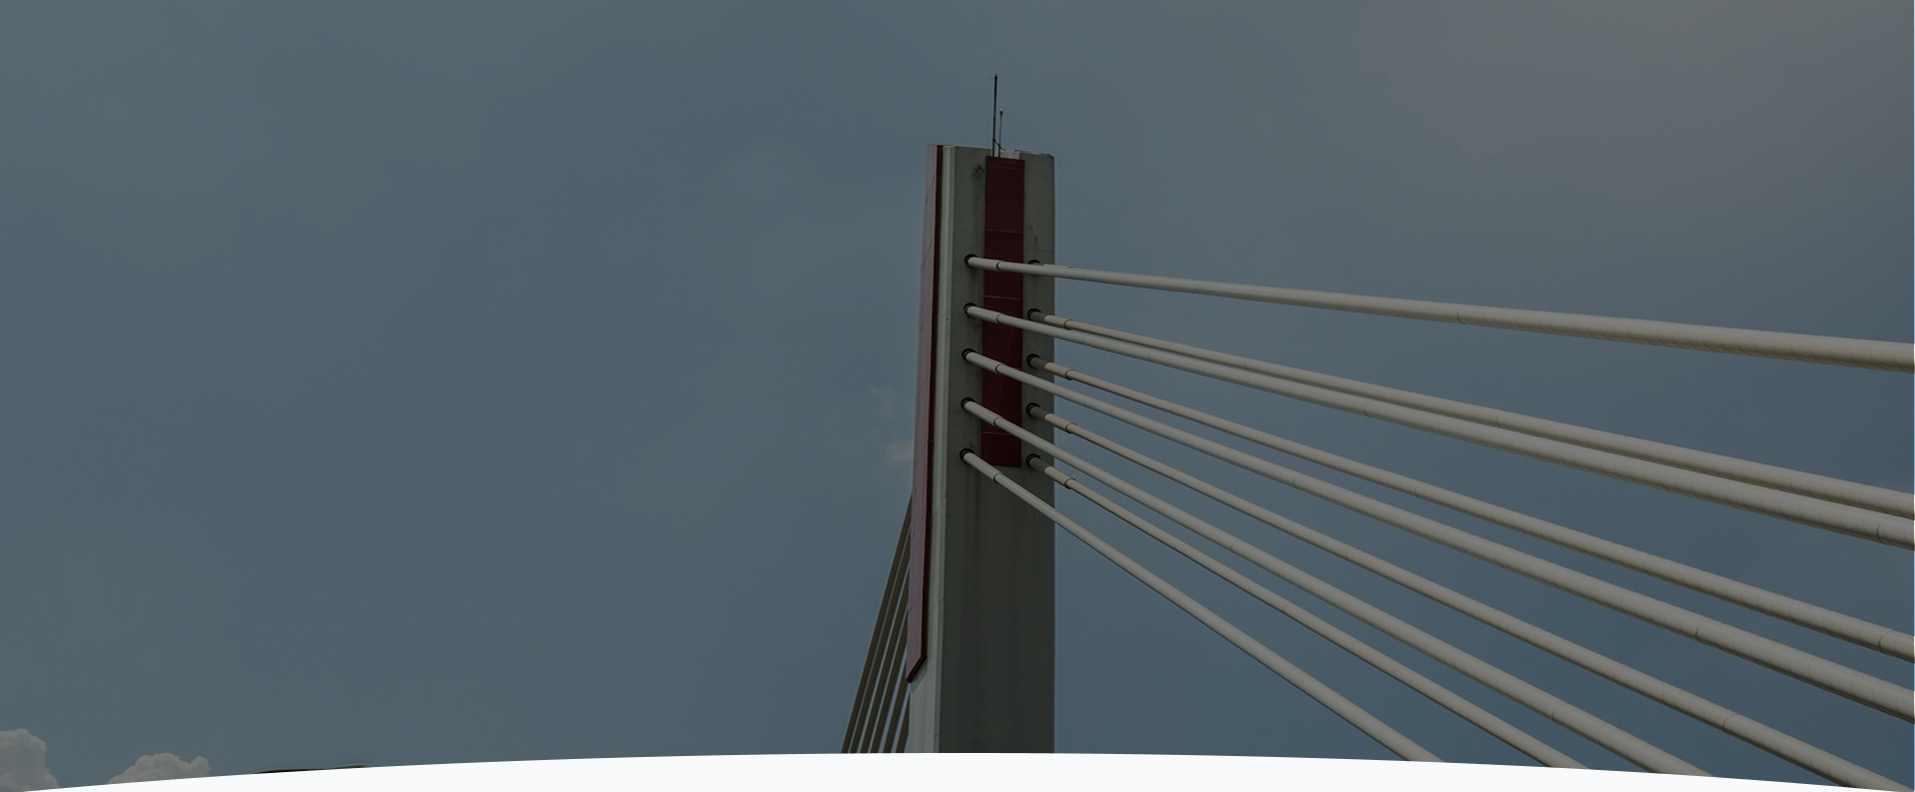
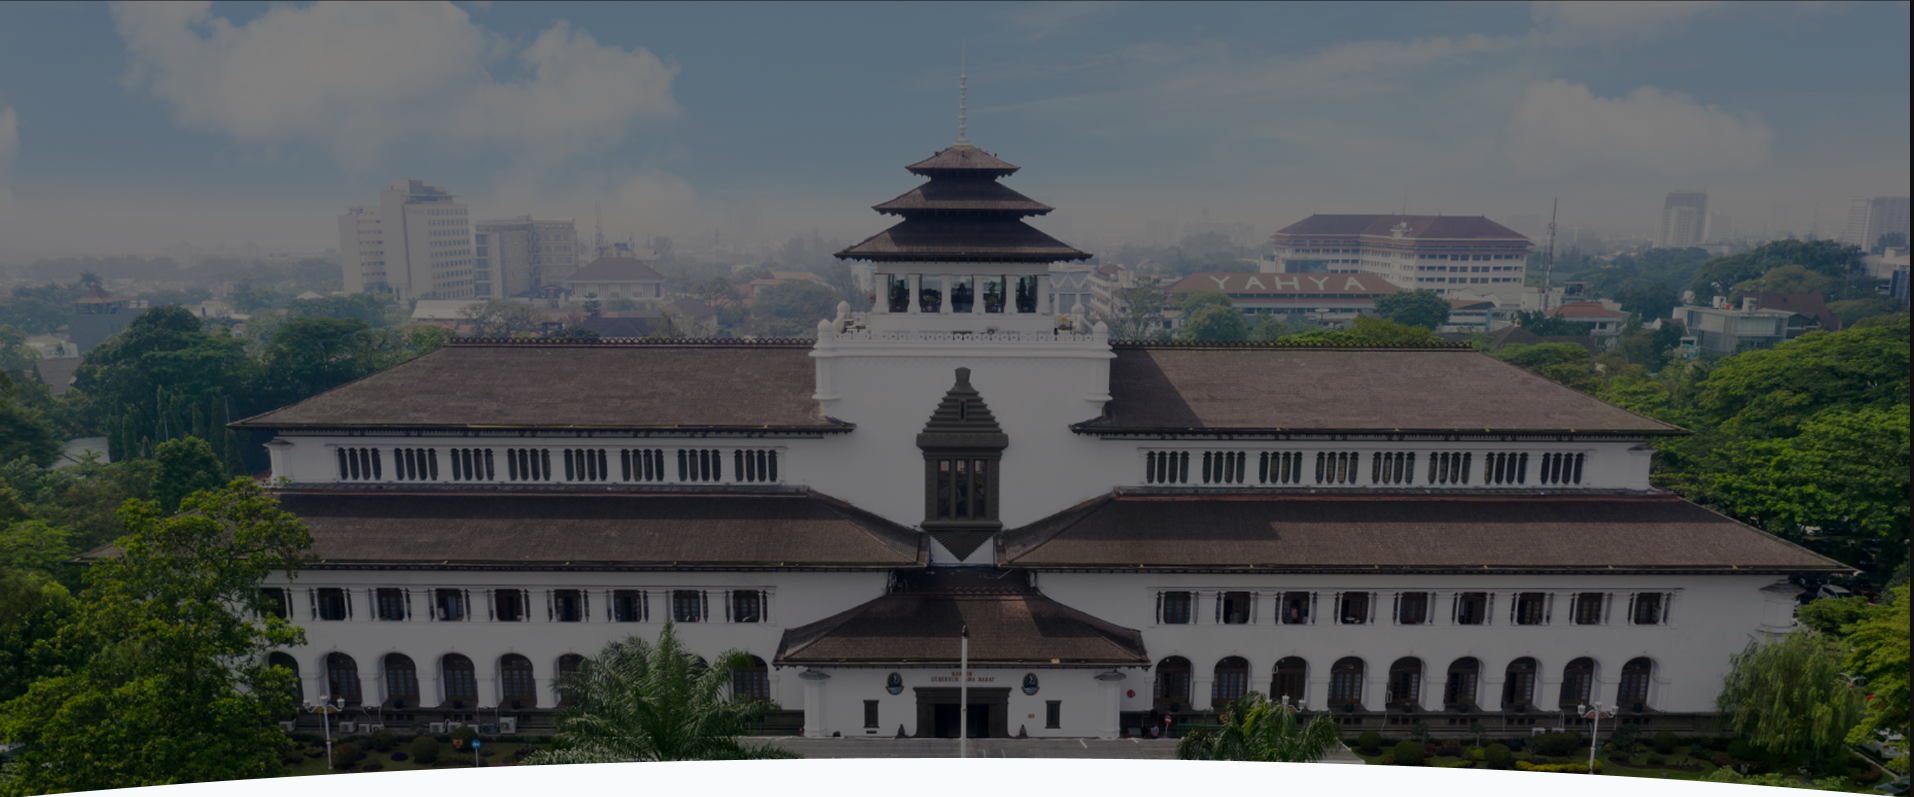
Refresh dashboard glass UI and view toggle
Revamps the dashboard visual style with brighter glassmorphism treatments across quick-access cards and filter controls, plus a smoother animated Grid/List toggle using Framer Motion layout transitions. It also updates portal background styling and image assets for the hero/ambient visuals, while adding `liquid-glass-react` to support the new glass-effect direction.

diff --git a/frontend/src/pages/DashboardPage.tsx b/frontend/src/pages/DashboardPage.tsx
@@ -1,4 +1,5 @@
 import { useState, useMemo } from 'react'
+import { LazyMotion, domAnimation, m } from 'framer-motion'
 import { useAuth } from '@/lib/auth/auth-context'
 import { useFavorites } from '@/lib/hooks/useFavorites'
 import { QuickAccessCard } from '@/components/services/QuickAccessCard'
@@ -198,11 +199,11 @@ export function DashboardPage() {
           {/* Quick Access — Top 3 Layanan Terpopuler */}
           <div>
             <FadeInView direction="down">
-              <div className="flex items-center justify-center gap-2 mb-3.5">
+              <div className="flex items-center gap-2.5 mb-3">
                 <h2 className="text-white font-bold text-lg drop-shadow-xs">Layanan Terpopuler</h2>
               </div>
             </FadeInView>
-            <div className="grid grid-cols-1 sm:grid-cols-2 lg:grid-cols-3 xl:grid-cols-3 gap-4 xl:max-w-[75%] mx-auto">
+            <div className="grid grid-cols-1 sm:grid-cols-2 lg:grid-cols-3 gap-4">
               {topServices.map((service, index) => (
                 <FadeInView
                   key={service.id}
@@ -231,55 +232,68 @@ export function DashboardPage() {
                 </span>
               </div>
 
-              {/* Grid vs List View Toggle — frosted glass pill */}
-              <div
-                className="flex items-center p-1 rounded-xl shadow-sm"
-                style={{
-                  background: 'rgba(255, 255, 255, 0.82)',
-                  backdropFilter: 'blur(16px) saturate(160%)',
-                  WebkitBackdropFilter: 'blur(16px) saturate(160%)',
-                  border: '1px solid rgba(255, 255, 255, 0.65)',
-                  boxShadow: '0 2px 12px rgba(0,0,0,0.08), inset 0 1px 0 rgba(255,255,255,0.9)',
-                }}
-              >
-                <button
-                  onClick={() => handleSetViewMode('grid')}
-                  title="Tampilan Grid Kartu"
-                  className={cn(
-                    'flex items-center gap-1.5 px-3 py-1.5 rounded-lg text-xs font-semibold transition-all cursor-pointer',
-                    viewMode === 'grid'
-                      ? 'bg-white text-slate-800 shadow-sm'
-                      : 'text-slate-500 hover:text-slate-700'
-                  )}
+              {/* Grid vs List View Toggle — frosted glass pill with framer-motion layoutId */}
+              <LazyMotion features={domAnimation} strict>
+                <div
+                  className="flex items-center p-1 rounded-xl shadow-xs relative"
+                  style={{
+                    background: 'linear-gradient(135deg, rgba(255, 255, 255, 0.52) 0%, rgba(255, 255, 255, 0.40) 100%)',
+                    backdropFilter: 'blur(20px) saturate(200%) brightness(118%)',
+                    WebkitBackdropFilter: 'blur(20px) saturate(200%) brightness(118%)',
+                    border: '1px solid rgba(255, 255, 255, 0.70)',
+                    boxShadow: '0 4px 16px rgba(0,0,0,0.06), inset 0 1px 1px rgba(255,255,255,0.95), inset 0 0 10px rgba(255,255,255,0.25)',
+                  }}
                 >
-                  <LayoutGrid className="h-3.5 w-3.5" />
-                  <span className="hidden xs:inline">Grid</span>
-                </button>
-                <button
-                  onClick={() => handleSetViewMode('list')}
-                  title="Tampilan Tabel/List Ramping"
-                  className={cn(
-                    'flex items-center gap-1.5 px-3 py-1.5 rounded-lg text-xs font-semibold transition-all cursor-pointer',
-                    viewMode === 'list'
-                      ? 'bg-white text-slate-800 shadow-sm'
-                      : 'text-slate-500 hover:text-slate-700'
-                  )}
-                >
-                  <List className="h-3.5 w-3.5" />
-                  <span className="hidden xs:inline">List</span>
-                </button>
-              </div>
+                  <button
+                    onClick={() => handleSetViewMode('grid')}
+                    title="Tampilan Grid Kartu"
+                    className={cn(
+                      'relative flex items-center gap-1.5 px-3 py-1.5 rounded-lg text-xs font-semibold transition-colors duration-200 cursor-pointer select-none',
+                      viewMode === 'grid' ? 'text-slate-900' : 'text-slate-600'
+                    )}
+                  >
+                    {viewMode === 'grid' && (
+                      <m.div
+                        layoutId="activeViewModeIndicator"
+                        className="absolute inset-0 bg-white/90 rounded-lg shadow-xs border border-white/80"
+                        transition={{ type: 'spring', stiffness: 500, damping: 35 }}
+                      />
+                    )}
+                    <LayoutGrid className="h-3.5 w-3.5 relative z-10" />
+                    <span className="hidden xs:inline relative z-10">Grid</span>
+                  </button>
+
+                  <button
+                    onClick={() => handleSetViewMode('list')}
+                    title="Tampilan Tabel/List Ramping"
+                    className={cn(
+                      'relative flex items-center gap-1.5 px-3 py-1.5 rounded-lg text-xs font-semibold transition-colors duration-200 cursor-pointer select-none',
+                      viewMode === 'list' ? 'text-slate-900' : 'text-slate-600'
+                    )}
+                  >
+                    {viewMode === 'list' && (
+                      <m.div
+                        layoutId="activeViewModeIndicator"
+                        className="absolute inset-0 bg-white/90 rounded-lg shadow-xs border border-white/80"
+                        transition={{ type: 'spring', stiffness: 500, damping: 35 }}
+                      />
+                    )}
+                    <List className="h-3.5 w-3.5 relative z-10" />
+                    <span className="hidden xs:inline relative z-10">List</span>
+                  </button>
+                </div>
+              </LazyMotion>
             </div>
 
-            {/* Filter & Search Bar — Frosted Glass, more solid white */}
+            {/* Filter & Search Bar — Luminous Frosted Glass */}
             <div
               className="p-3 sm:p-4 rounded-2xl shadow-lg transition-all"
               style={{
-                background: 'rgba(255, 255, 255, 0.82)',
-                backdropFilter: 'blur(20px) saturate(180%)',
-                WebkitBackdropFilter: 'blur(20px) saturate(180%)',
-                border: '1px solid rgba(255, 255, 255, 0.65)',
-                boxShadow: '0 4px 24px rgba(0,0,0,0.10), 0 1px 4px rgba(0,0,0,0.06), inset 0 1px 0 rgba(255,255,255,0.95)',
+                background: 'linear-gradient(135deg, rgba(255, 255, 255, 0.52) 0%, rgba(255, 255, 255, 0.40) 100%)',
+                backdropFilter: 'blur(20px) saturate(200%) brightness(118%)',
+                WebkitBackdropFilter: 'blur(20px) saturate(200%) brightness(118%)',
+                border: '1px solid rgba(255, 255, 255, 0.70)',
+                boxShadow: '0 8px 32px rgba(0,0,0,0.08), 0 2px 8px rgba(0,0,0,0.04), inset 0 1.5px 1px rgba(255,255,255,0.95), inset 0 0 16px rgba(255,255,255,0.25)',
               }}
             >
               <div className="grid grid-cols-1 sm:grid-cols-12 gap-3 items-center">
@@ -290,12 +304,12 @@ export function DashboardPage() {
                     value={searchQuery}
                     onChange={e => setSearchQuery(e.target.value)}
                     placeholder="Cari layanan berdasarkan nama atau deskripsi..."
-                    className="pl-10 pr-8 bg-white/60 hover:bg-white/80 focus:bg-white border-slate-200/70 focus:border-slate-300 text-slate-800 placeholder:text-slate-400 text-xs sm:text-sm h-11 rounded-xl transition-all shadow-inner"
+                    className="pl-10 pr-8 bg-slate-50/80 hover:bg-slate-50 focus:bg-white border-slate-200 text-slate-800 placeholder:text-slate-400 text-xs sm:text-sm h-11 rounded-xl transition-all shadow-2xs"
                   />
                   {searchQuery && (
                     <button
                       onClick={() => setSearchQuery('')}
-                      className="absolute right-3 top-1/2 -translate-y-1/2 text-slate-400 hover:text-slate-700 p-0.5 cursor-pointer"
+                      className="absolute right-3 top-1/2 -translate-y-1/2 text-slate-400 hover:text-slate-600 p-0.5 cursor-pointer"
                       title="Hapus pencarian"
                     >
                       <X className="h-3.5 w-3.5" />
@@ -309,18 +323,18 @@ export function DashboardPage() {
                     value={selectedCategory !== null ? String(selectedCategory) : 'all'}
                     onValueChange={val => setSelectedCategory(val === 'all' ? null : Number(val))}
                   >
-                    <SelectTrigger className="w-full bg-white/60 hover:bg-white/80 focus:bg-white border-slate-200/70 text-slate-700 text-xs sm:text-sm h-11 rounded-xl">
+                    <SelectTrigger className="w-full bg-slate-50/80 hover:bg-slate-50 focus:bg-white border-slate-200 text-slate-700 text-xs sm:text-sm h-11 rounded-xl shadow-2xs">
                       <SelectValue placeholder="Semua Kategori" />
                     </SelectTrigger>
-                    <SelectContent className="bg-white/95 backdrop-blur-xl border border-slate-200 text-slate-800 shadow-2xl rounded-xl">
-                      <SelectItem value="all" className="text-slate-700 hover:bg-slate-50 focus:bg-slate-50 cursor-pointer">
+                    <SelectContent className="bg-white border-slate-200 text-slate-800 shadow-xl rounded-xl">
+                      <SelectItem value="all" className="cursor-pointer text-xs sm:text-sm">
                         Semua Kategori
                       </SelectItem>
                       {mockCategories.map(cat => (
                         <SelectItem
                           key={cat.id}
                           value={String(cat.id)}
-                          className="text-slate-700 hover:bg-slate-50 focus:bg-slate-50 cursor-pointer"
+                          className="cursor-pointer text-xs sm:text-sm"
                         >
                           {cat.nama}
                         </SelectItem>

diff --git a/frontend/src/components/services/QuickAccessCard.tsx b/frontend/src/components/services/QuickAccessCard.tsx
@@ -20,11 +20,11 @@ export function QuickAccessCard({
       aria-label={`Layanan terpopuler: ${service.nama}. ${service.deskripsi}.${service.usage_count ? ` ${service.usage_count.toLocaleString()} kali diakses.` : ''}`}
       className="h-full flex flex-col justify-between relative overflow-hidden group rounded-2xl cursor-pointer focus-visible:outline-none focus-visible:ring-2 focus-visible:ring-white/80 focus-visible:ring-offset-2 focus-visible:ring-offset-transparent transition-all duration-300 hover:-translate-y-1"
       style={{
-        background: 'rgba(255, 255, 255, 0.88)',
-        backdropFilter: 'blur(20px) saturate(180%)',
-        WebkitBackdropFilter: 'blur(20px) saturate(180%)',
-        border: '1px solid rgba(255, 255, 255, 0.7)',
-        boxShadow: '0 4px 24px rgba(0,0,0,0.10), 0 1.5px 6px rgba(0,0,0,0.07), inset 0 1px 0 rgba(255,255,255,0.9)',
+        background: 'linear-gradient(135deg, rgba(255, 255, 255, 0.52) 0%, rgba(255, 255, 255, 0.40) 100%)',
+        backdropFilter: 'blur(20px) saturate(200%) brightness(118%)',
+        WebkitBackdropFilter: 'blur(20px) saturate(200%) brightness(118%)',
+        border: '1px solid rgba(255, 255, 255, 0.70)',
+        boxShadow: '0 8px 32px rgba(0,0,0,0.08), 0 2px 8px rgba(0,0,0,0.04), inset 0 1.5px 1px rgba(255,255,255,0.95), inset 0 0 16px rgba(255,255,255,0.25)',
       }}
       onClick={() => onServiceClick(service)}
       onKeyDown={(e) => {
@@ -38,35 +38,36 @@ export function QuickAccessCard({
       <div
         className="w-full h-32 sm:h-36 flex items-center justify-center p-4 rounded-t-2xl shrink-0"
         style={{
-          background: 'rgba(255, 255, 255, 0.70)',
-          borderBottom: '1px solid rgba(255, 255, 255, 0.6)',
+          background: 'linear-gradient(180deg, rgba(255, 255, 255, 0.35) 0%, rgba(255, 255, 255, 0.22) 100%)',
+          borderBottom: '1px solid rgba(255, 255, 255, 0.45)',
+          boxShadow: 'inset 0 1px 1px rgba(255, 255, 255, 0.6)',
         }}
       >
         {service.icon_url ? (
           <img
             src={service.icon_url}
             alt={`Logo ${service.nama}`}
-            className="max-h-20 max-w-[80%] object-contain drop-shadow-2xs group-hover:scale-105 transition-transform duration-300"
+            className="max-h-20 max-w-[80%] object-contain drop-shadow-sm group-hover:scale-105 transition-transform duration-300"
           />
         ) : (
           <div className="flex flex-col items-center gap-1.5">
-            <Layers aria-hidden="true" className="h-8 w-8 text-slate-400 group-hover:scale-110 transition-transform duration-300" />
-            <span className="text-slate-600 text-xs font-semibold">{service.nama}</span>
+            <Layers aria-hidden="true" className="h-8 w-8 text-slate-500 group-hover:scale-110 transition-transform duration-300" />
+            <span className="text-slate-700 text-xs font-semibold">{service.nama}</span>
           </div>
         )}
       </div>
 
       {/* Description & info strip */}
       <div className="p-4 pt-3 flex-1 flex flex-col justify-between">
-        <p className="text-slate-600 text-xs line-clamp-2 mb-3 leading-relaxed font-normal">
+        <p className="text-slate-700 text-xs line-clamp-2 mb-3 leading-relaxed font-normal">
           {service.deskripsi}
         </p>
         <div
           className="flex items-center justify-between pt-2.5 mt-auto"
-          style={{ borderTop: '1px solid rgba(255, 255, 255, 0.5)' }}
+          style={{ borderTop: '1px solid rgba(255, 255, 255, 0.45)' }}
         >
-          <span className="text-slate-400 text-[11px] font-normal">Layanan Populer</span>
-          <span className="text-blue-600 font-semibold text-[11px]">
+          <span className="text-slate-600/90 text-[11px] font-medium">Layanan Populer</span>
+          <span className="text-primary-700 font-semibold text-[11px]">
             {service.usage_count?.toLocaleString()} kali diakses
           </span>
         </div>

diff --git a/frontend/src/index.css b/frontend/src/index.css
@@ -49,8 +49,7 @@
 
   /* Sleek modern scrollbar */
   ::-webkit-scrollbar {
-    width: 7px;
-    height: 7px;
+    display: none;
   }
 
   ::-webkit-scrollbar-track {
@@ -130,8 +129,23 @@
    Static Background (Portal pages)
    ================================ */
 .bg-portal {
-  background-color: #f8fafc;
+  background: linear-gradient(140deg, #f8fafc 0%, #edf2f7 35%, #e6f0fa 70%, #f0fdfa 100%);
   min-height: 100vh;
+}
+
+.bg-portal::before {
+  content: '';
+  position: fixed;
+  top: 0;
+  left: 0;
+  width: 100%;
+  height: 100%;
+  background: radial-gradient(ellipse at 12% 20%, rgba(59, 130, 246, 0.12) 0%, transparent 48%),
+              radial-gradient(ellipse at 88% 65%, rgba(13, 148, 136, 0.12) 0%, transparent 48%),
+              radial-gradient(ellipse at 50% 12%, rgba(245, 158, 11, 0.07) 0%, transparent 42%),
+              radial-gradient(ellipse at 40% 88%, rgba(99, 102, 241, 0.08) 0%, transparent 45%);
+  pointer-events: none;
+  z-index: 0;
 }
 
 /* ================================
